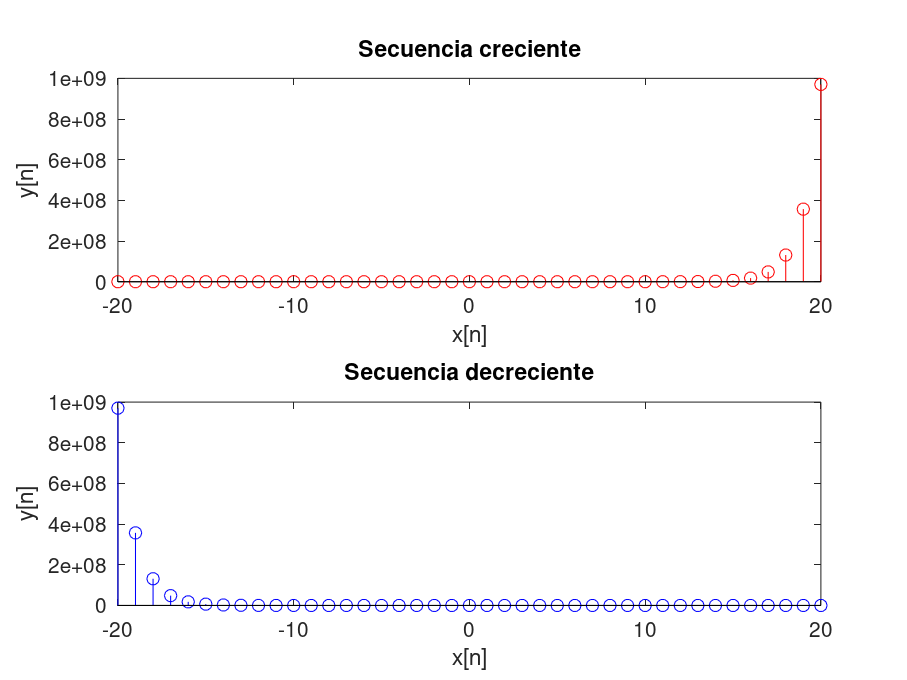
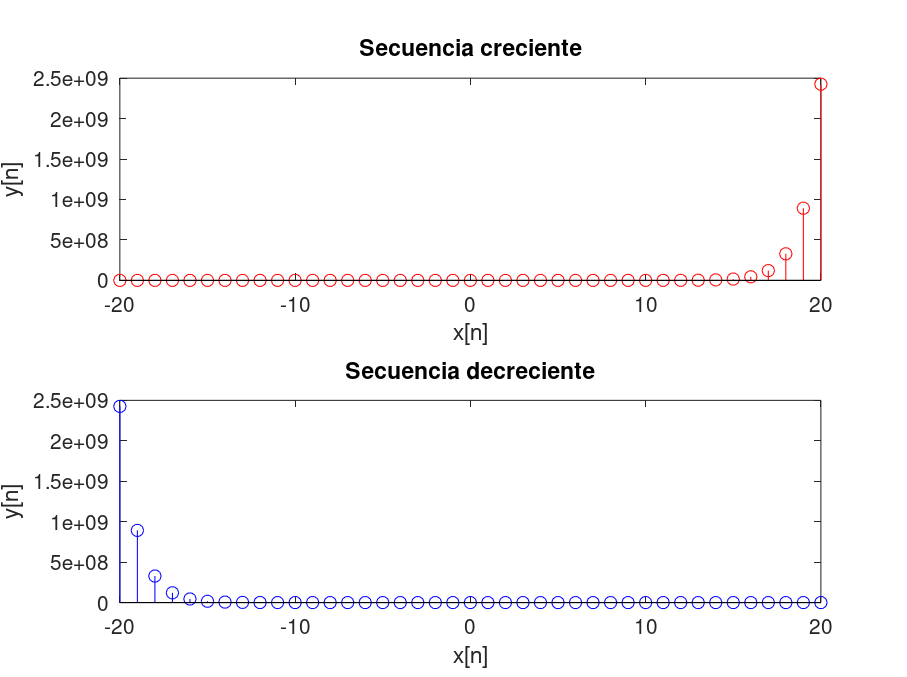
LP_V3

diff --git a/Practica1/Problema6.m b/Practica1/Problema6.m
@@ -3,7 +3,7 @@ clc;
 
 #Parametros iniciales
 
-A = 2;
+A = 5;
 n = -20:1:20;
 
 #Secuencia exponecial creciente
